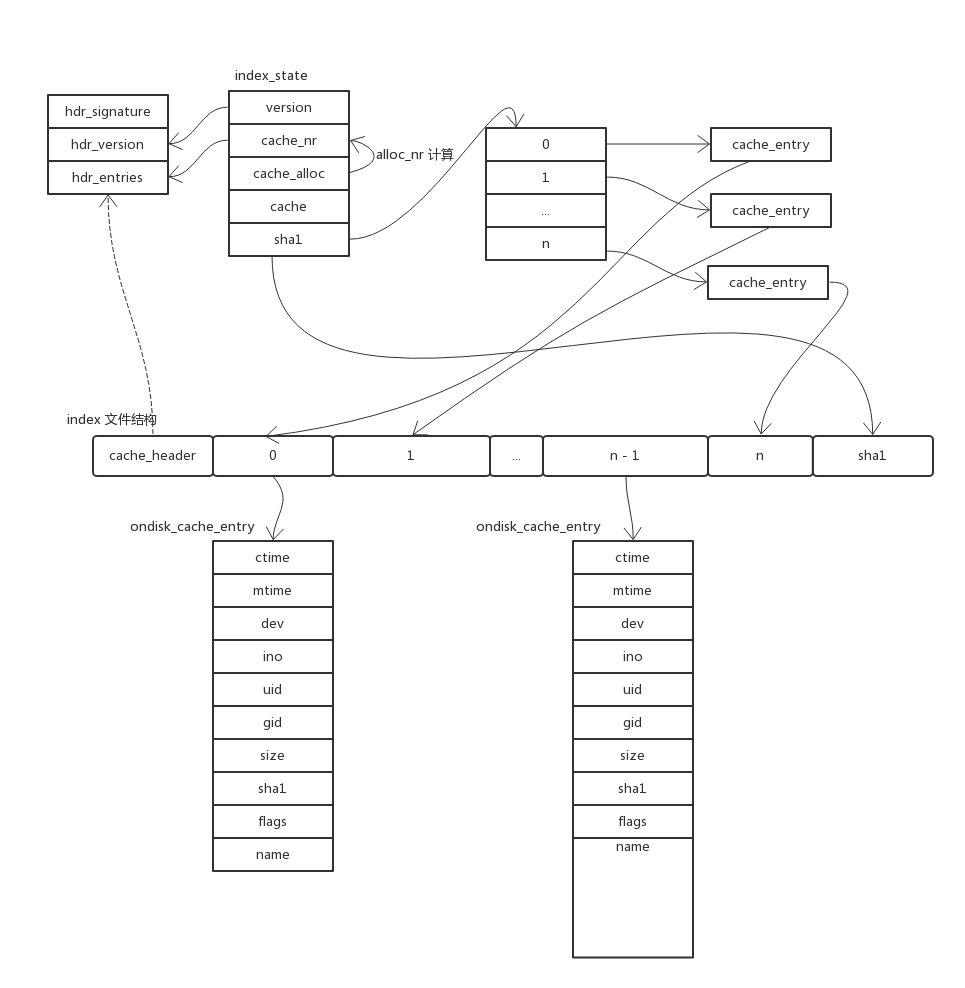
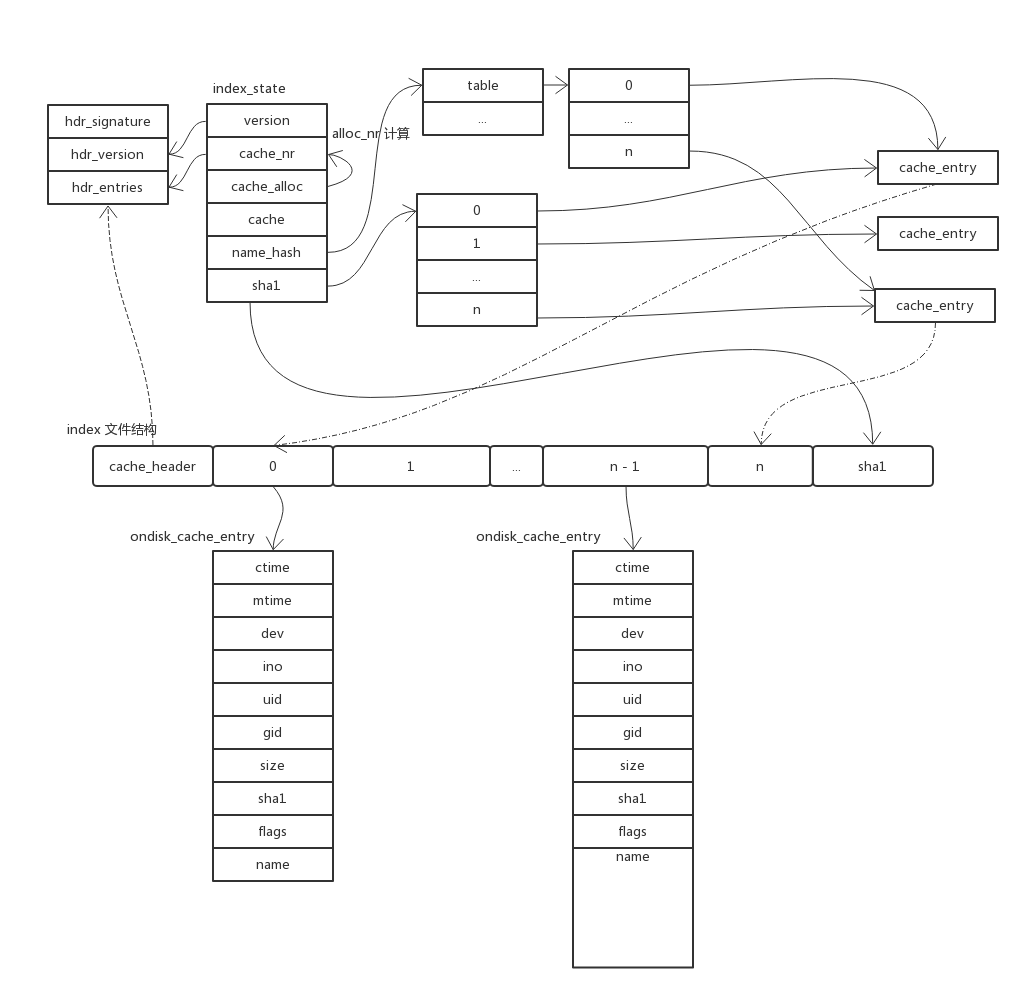
more on git add

diff --git a/git/dir.md b/git/dir.md
@@ -1,0 +1,58 @@
+# Dir
+
+## 概览
+
+![Dir](./images/dir.png)
+
+关于数据结构的说明：
+
+- EXC_CMDL: 从命令行输入的 exclude 模式链表
+- EXC_DIRS: 每个目录的 .gitignore 文件中的模式链表
+- EXC_FILE: 从 .git/info/exclude core.excludesfile 获取的 exclude 模式链表
+
+## 关键方法
+
+### setup_standard_excludes
+
+```C
+void setup_standard_excludes(struct dir_struct *dir)
+{
+	dir->exclude_per_dir = ".gitignore";
+
+	if (!excludes_file)
+		// 按顺序查看文件 ${XDG_CONFIG_HOME}/git/ignore、${HOME}/.config/git/ignore 是否存在；
+		// 如果存在，返回文件路径
+		excludes_file = xdg_config_home("ignore");
+
+	// 全局 exclude 文件存在，且可读，则加载
+	if (excludes_file && !access_or_warn(excludes_file, R_OK, 0))
+		add_excludes_from_file_1(dir, excludes_file,
+					 dir->untracked ? &dir->ss_excludes_file : NULL);
+
+	if (startup_info->have_repository) {
+		// 获取当前代码仓库的配置
+		const char *path = git_path_info_exclude();
+		if (!access_or_warn(path, R_OK, 0))
+			add_excludes_from_file_1(dir, path,
+						 dir->untracked ? &dir->ss_info_exclude : NULL);
+	}
+}
+```
+
+### add_excludes_from_file_1
+
+```C
+el = add_exclude_list(dir, EXC_FILE, fname);
+```
+
+执行完毕后，dir 如下图所示：
+
+![Add Exclude List](./images/add_exclude_list.png)
+
+```C
+if (add_excludes(fname, "", 0, el, NULL, oid_stat) < 0)
+```
+
+执行完毕后，dir 如下图所示：
+
+![Add Excludes](./images/add_excludes.png)

diff --git a/git/add.md b/git/add.md
@@ -26,6 +26,41 @@ if (read_cache() < 0)
 
 问了加速 git 运行，在读取 index 文件过程中，使用了 [mmap](https://en.wikipedia.org/wiki/Mmap)。
 
+然后是读取 pathspec：
+
+```C
+parse_pathspec(&pathspec, 0,
+	       PATHSPEC_PREFER_FULL |
+	       PATHSPEC_SYMLINK_LEADING_PATH,
+	       prefix, argv);
+```
+
+这个方法比较关键，我们在 [Path Spec](pathspec.md) 中详细讲解。
+
+然后，获取目录更改信息：
+
+```C
+if (add_new_files) {
+	int baselen;
+
+	/* Set up the default git porcelain excludes */
+	memset(&dir, 0, sizeof(dir));
+	if (!ignored_too) {
+		dir.flags |= DIR_COLLECT_IGNORED;
+		setup_standard_excludes(&dir);
+	}
+
+	/* This picks up the paths that are not tracked */
+	baselen = fill_directory(&dir, &the_index, &pathspec);
+	if (pathspec.nr)
+		seen = prune_directory(&dir, &pathspec, baselen);
+}
+```
+
+关于 dir 相关结构及方法的讲解，在 [Dir](dir.md) 中。
+
+现在，目录来源有 the_index 中现有目录，pathspec 中目录及 dir 中目录。
+
 ## References
 
 - [mmap](https://en.wikipedia.org/wiki/Mmap)

diff --git a/SUMMARY.md b/SUMMARY.md
@@ -11,6 +11,7 @@
     * [Commit](git/commit.md)
   * [辅助功能]()
     * [Path Spec](git/pathspec.md)
+    * [Dir](git/dir.md)
 * [redis 源码阅读](redis/index.md)
   * [基础数据结构]()
     * [List](redis/list.md)
